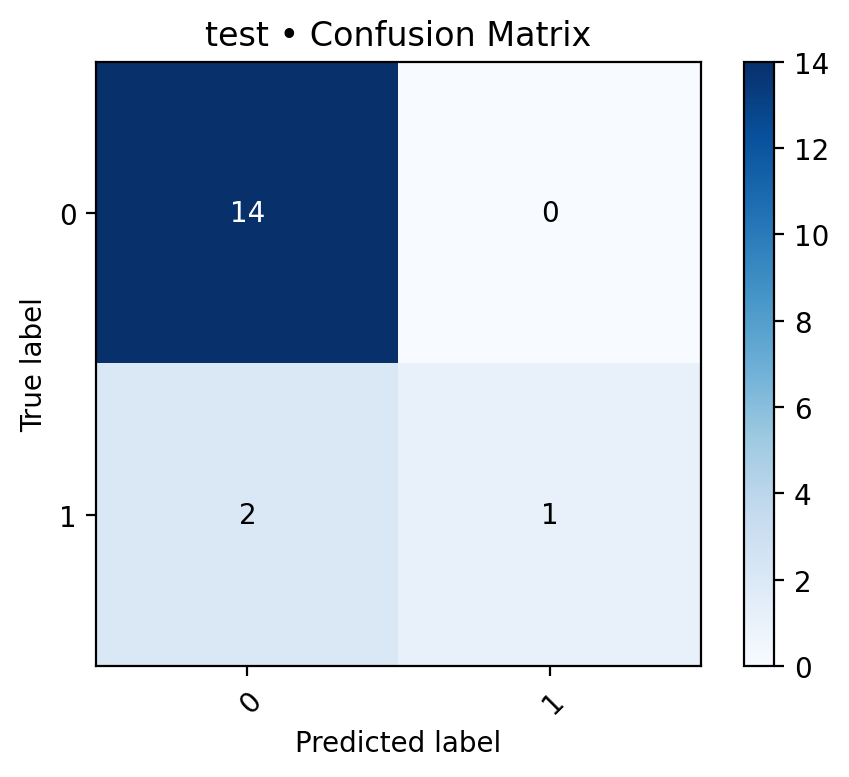
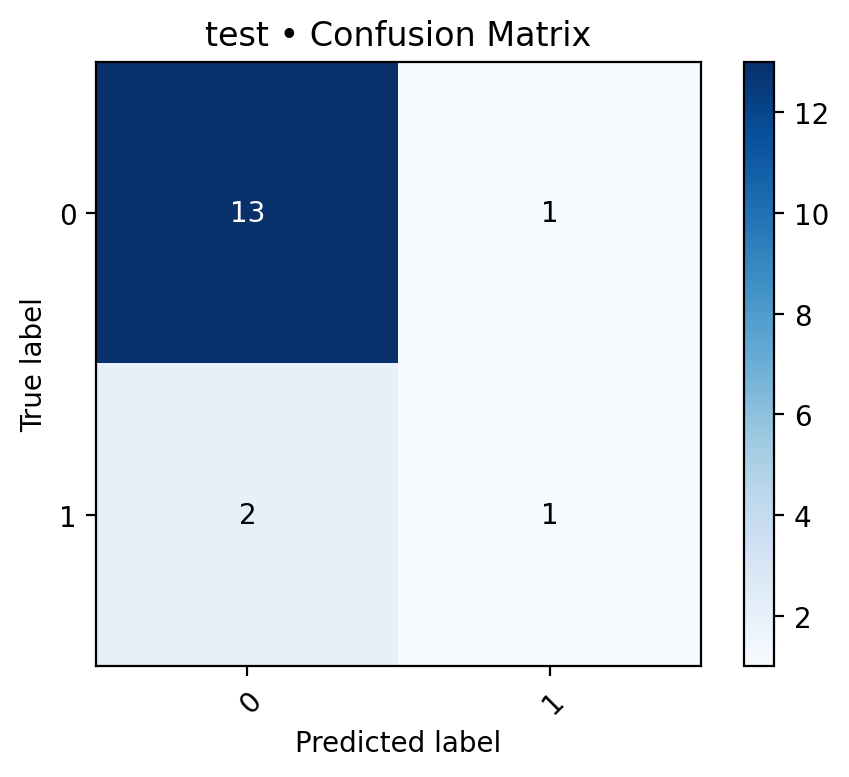
add transMIL

diff --git a/src/dataloader/dataloader.py b/src/dataloader/dataloader.py
@@ -11,7 +11,9 @@ from torch.utils.data import Dataset, DataLoader
 import h5py
 from dataclasses import dataclass
 from pathlib import Path
-
+from torch.utils.data import WeightedRandomSampler
+import torch
+import numpy as np
 
 def minmax_01_np(X: np.ndarray, eps: float = 1e-8) -> np.ndarray:
     """
@@ -419,7 +421,7 @@ def train_val_loaders(
     morph_dir: str,
     labels_csv: str,
     *,
-    val_ratio: float = 0.2,
+    val_ratio: float = 0.3,
     seed: int = 42,
     batch_size: int = 1,
     num_workers: int = 4,
@@ -429,6 +431,7 @@ def train_val_loaders(
     keep_morph_columns=None,
     align_by_coords_if_possible: bool = True,
     strict: bool = True,
+    use_weighted_sampler: bool = True, 
 ) -> Tuple[DataLoader, DataLoader, Dict[str, Any]]:
     """
     Returns: train_loader, val_loader, info_dict
@@ -445,7 +448,7 @@ def train_val_loaders(
         align_by_coords_if_possible=align_by_coords_if_possible,
         strict=strict,
     )
-
+    
     n = len(ds)
     if n == 0:
         raise RuntimeError("Dataset is empty after matching. Check ID formats / paths.")
@@ -467,15 +470,54 @@ def train_val_loaders(
     train_ds = Subset(ds, train_idx)
     val_ds = Subset(ds, val_idx)
 
-    train_loader = DataLoader(
-        train_ds,
-        batch_size=batch_size,
-        shuffle=shuffle_train,
-        num_workers=num_workers,
-        pin_memory=pin_memory,
-        collate_fn=clam_like_collate,
-        drop_last=False,
-    )
+    # train_loader = DataLoader(
+    #     train_ds,
+    #     batch_size=batch_size,
+    #     shuffle=shuffle_train,
+    #     num_workers=num_workers,
+    #     pin_memory=pin_memory,
+    #     collate_fn=clam_like_collate,
+    #     drop_last=False,
+    # )
+    # ---- class-weighted sampling for TRAIN only ----
+    if use_weighted_sampler:
+        # train_ds is a Subset, train_ds.indices are indices into ds.items
+        train_labels = np.array([ds.items[i].label for i in train_ds.indices], dtype=np.int64)
+
+        class_counts = np.bincount(train_labels, minlength=2)  # [count0, count1]
+        # inverse-frequency weights (common choice)
+        class_weights = 1.0 / np.maximum(class_counts, 1)
+
+        sample_weights = class_weights[train_labels]  # one weight per training sample
+
+        sampler = WeightedRandomSampler(
+            weights=torch.as_tensor(sample_weights, dtype=torch.double),
+            num_samples=len(sample_weights),   # samples per epoch
+            replacement=True,                  # oversample minority
+        )
+
+        train_loader = DataLoader(
+            train_ds,
+            batch_size=batch_size,
+            sampler=sampler,       # ✅ use sampler instead of shuffle
+            shuffle=False,         # must be False when sampler is set
+            num_workers=num_workers,
+            pin_memory=pin_memory,
+            collate_fn=clam_like_collate,
+            drop_last=False,
+        )
+    else:
+        train_loader = DataLoader(
+            train_ds,
+            batch_size=batch_size,
+            shuffle=shuffle_train,
+            num_workers=num_workers,
+            pin_memory=pin_memory,
+            collate_fn=clam_like_collate,
+            drop_last=False,
+        )
+
+
 
     val_loader = DataLoader(
         val_ds,

diff --git a/src/trainTransMIL.py b/src/trainTransMIL.py
@@ -243,9 +243,18 @@ class Trainer:
             batch_size=1,
             num_workers=4,
             pin_memory=True,
+            use_weighted_sampler= False, #True
         )
 
         # Model / Optim / Loss
+        base_dim = self.cfg.get("base_input_dim", 1024)
+        morph_dim = self.cfg.get("morph_dim", 246)
+        
+        if self.cfg.get("simple_concat", False):
+            self.cfg["input_dim"] = base_dim + morph_dim
+        else:
+            self.cfg["input_dim"] = base_dim        
+                    
         self.model = build_backbone(cfg).to(self.device)
 
         ## define the optimizer
@@ -304,7 +313,12 @@ class Trainer:
         for batch in loader:
             x = batch["feats"].to(self.device, non_blocking=True).unsqueeze(0)
             y = batch["label"].to(self.device, non_blocking=True)
-
+            
+            ###### merge the feats and morphs
+            if self.cfg.get("simple_concat"):
+                morph = batch["morph"].to(self.device, non_blocking=True).unsqueeze(0)
+                x = torch.cat([x, morph], dim=-1)
+                
             if self.use_amp:
                 with autocast():
                     out = self.model(data=x)
@@ -416,6 +430,15 @@ class Trainer:
         for step, batch in enumerate(self.train_loader, 1):
             x = batch["feats"].to(self.device, non_blocking=True).unsqueeze(0)   # (B,16,2048)
             y = batch["label"].to(self.device, non_blocking=True)   # (B,)
+
+            if self.cfg.get("simple_concat"):
+                morph = batch["morph"].to(self.device, non_blocking=True).unsqueeze(0)
+                x = torch.cat([x, morph], dim=-1)
+                # print("x----------------shape", x.shape)
+                # print("morph------------shape", morph.shape)
+
+            # print("x--------------shape", x.shape)
+            # exit()
             i = 0
 
             self.optimizer.zero_grad(set_to_none=True)
@@ -474,7 +497,10 @@ class Trainer:
             for batch in self.val_loader:
                 x = batch["feats"].to(self.device, non_blocking=True).unsqueeze(0)
                 y = batch["label"].to(self.device, non_blocking=True)
-
+                if self.cfg.get("simple_concat"):
+                    morph = batch["morph"].to(self.device, non_blocking=True).unsqueeze(0)
+                    x = torch.cat([x, morph], dim=-1)
+                    
                 if self.use_amp:
                     with autocast():
                         out = self.model(data=x)
@@ -589,7 +615,7 @@ def main():
     trainer = Trainer(cfg)
 
     # quick check one batch
-    trainer.forward_all(ckpt_path=None, max_batches=1)
+    # trainer.forward_all(ckpt_path=None, max_batches=1)
     # print("trainer.forward_all-------------------------pass")
     # full training        
     trainer.fit()

diff --git a/src/model/transMIL.py b/src/model/transMIL.py
@@ -135,13 +135,14 @@ class TransMIL(nn.Module):
     def __init__(self, cfg, n_classes):
         super(TransMIL, self).__init__()
         self.emd_dim = cfg.get("emd_dim", 512)
+        self.input_dim = cfg.get("input_dim", 1024)
         
         if cfg["ppeg"]=="norm":
             self.pos_layer = PPEG(dim=self.emd_dim)
         elif cfg["ppeg"]=="addaptive":
             self.pos_layer = AddapPPEG(dim=self.emd_dim, mix_channels=False )
             
-        self._fc1 = nn.Sequential(nn.Linear(1024, self.emd_dim), nn.ReLU())
+        self._fc1 = nn.Sequential(nn.Linear(self.input_dim, self.emd_dim), nn.ReLU())
         self.cls_token = nn.Parameter(torch.randn(1, 1, self.emd_dim))
         self.n_classes = n_classes
         self.layer1 = TransLayer(cfg, dim=self.emd_dim )
